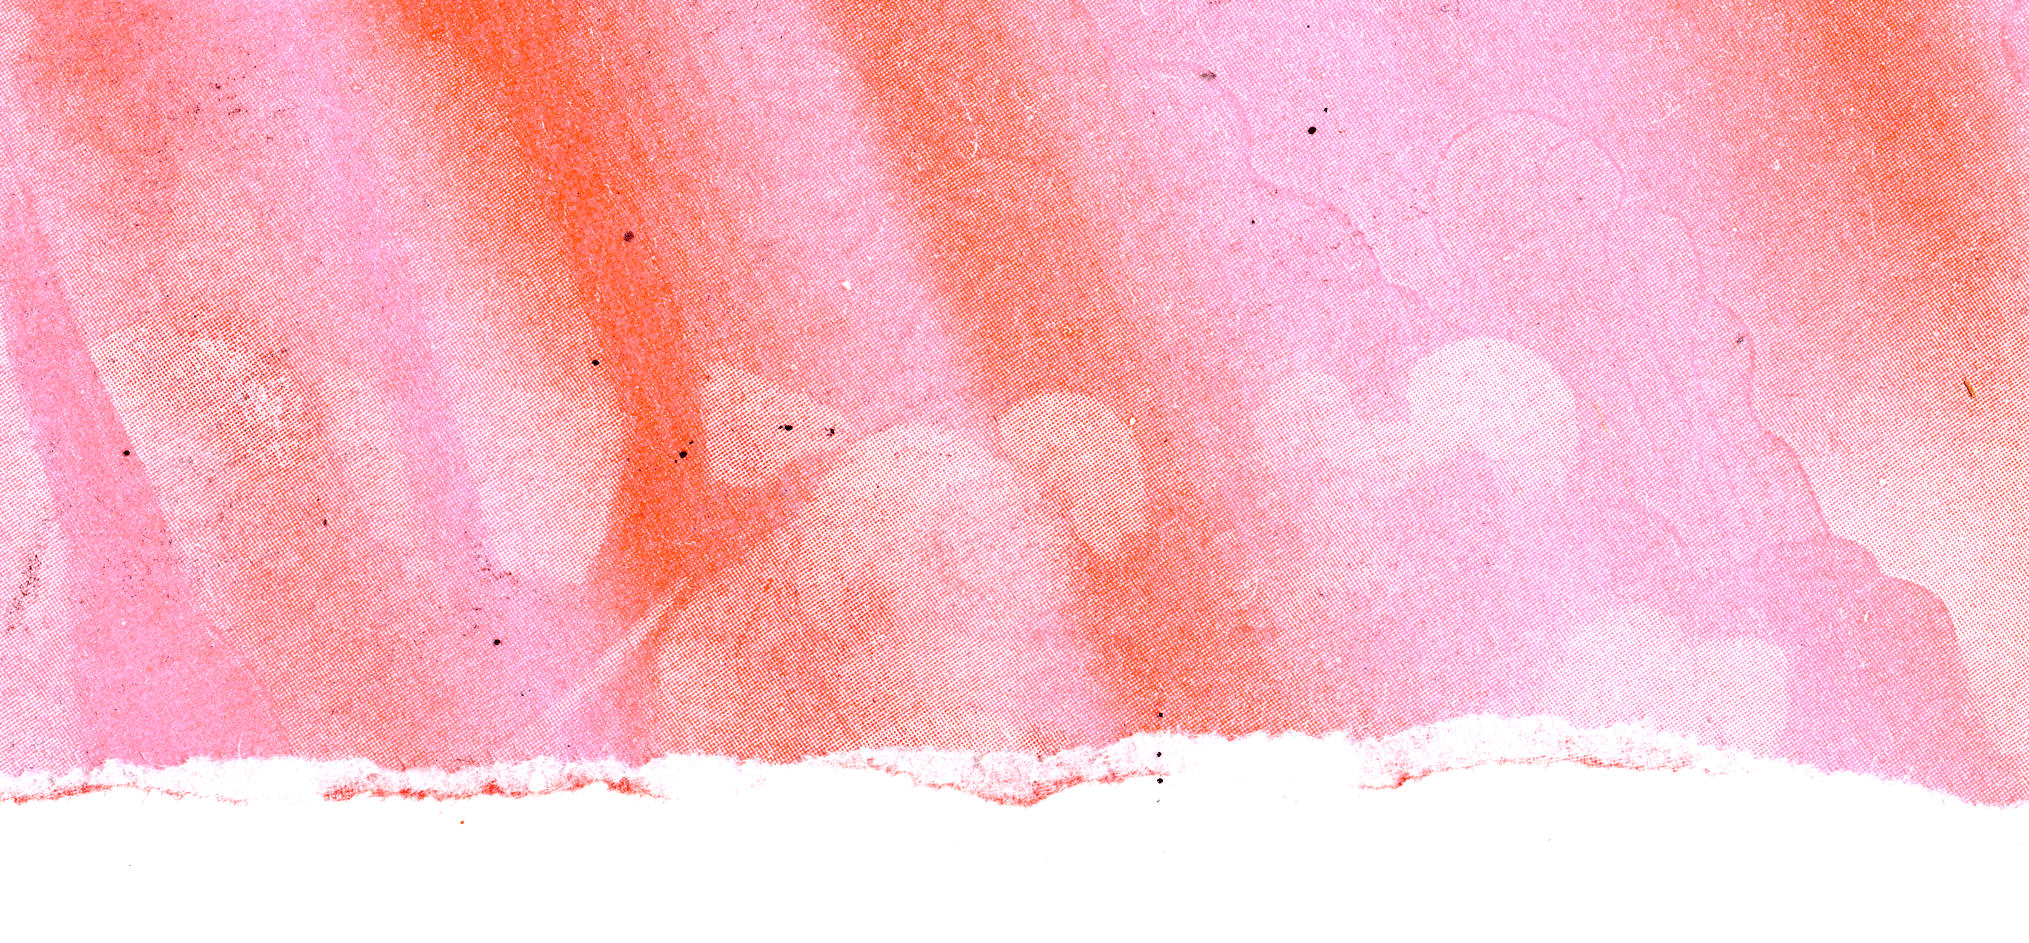
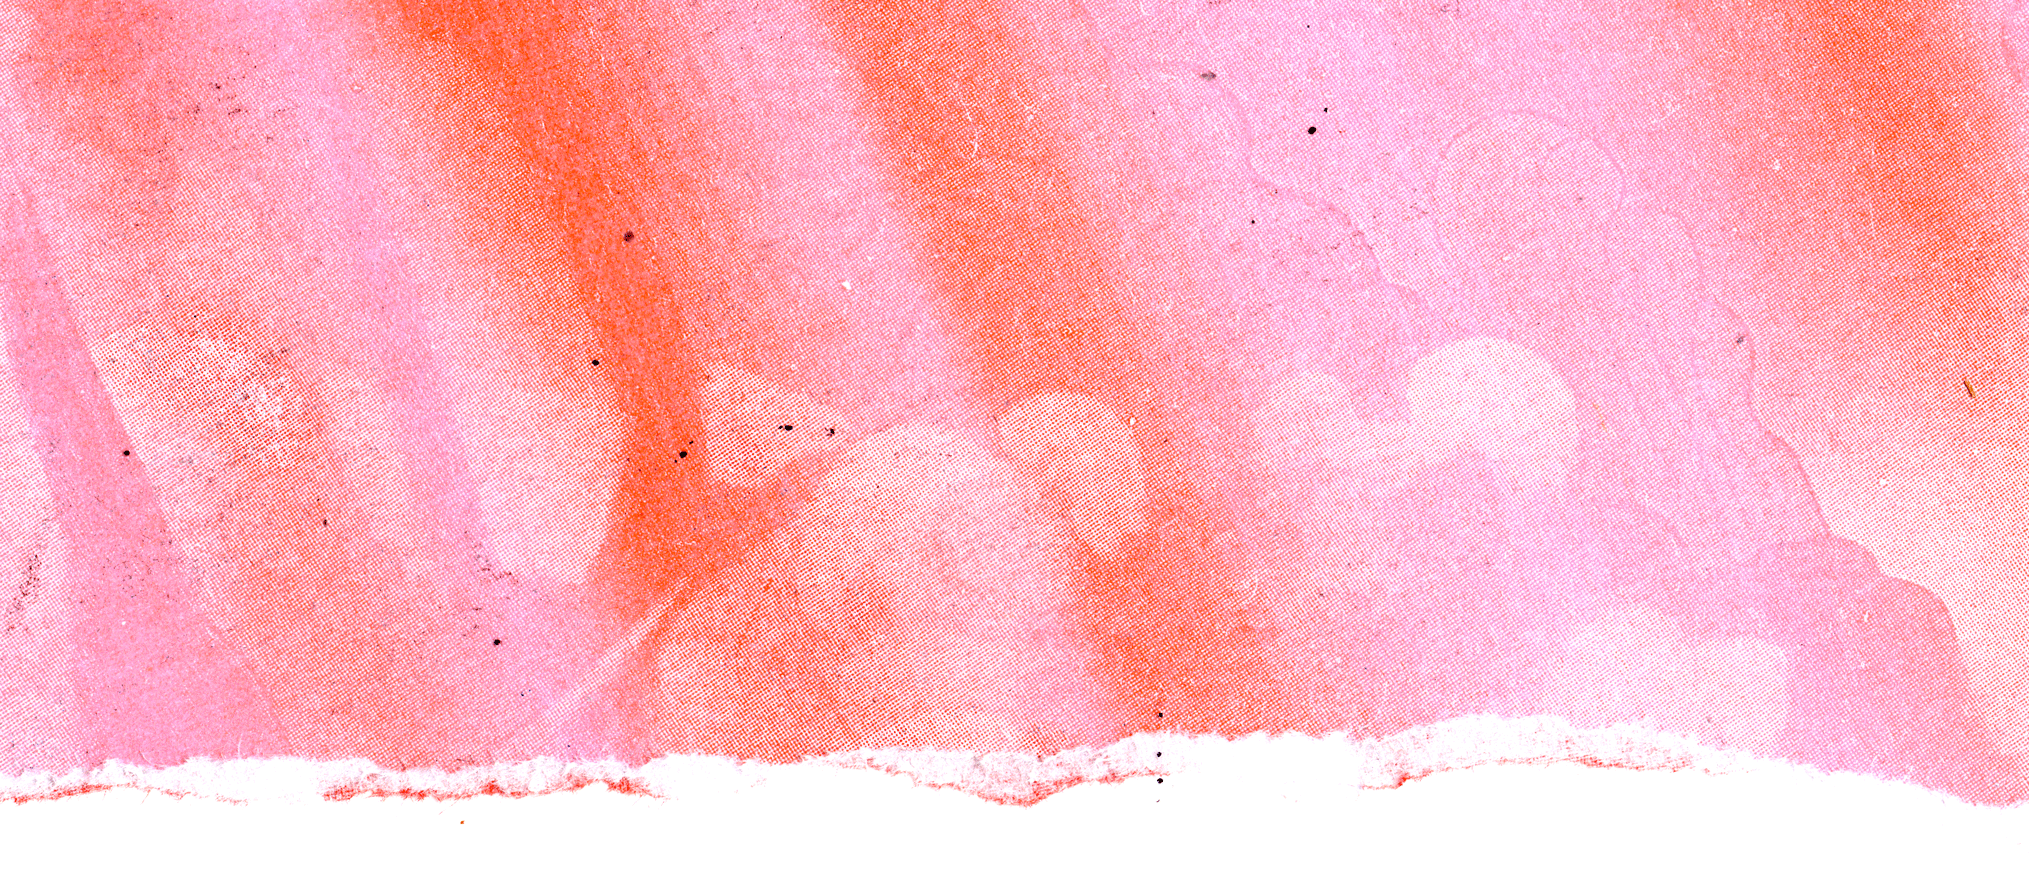
html: update style

diff --git a/srcs/requirements/bonus/www/hazardous/riso.html b/srcs/requirements/bonus/www/hazardous/riso.html
@@ -42,35 +42,41 @@
 				<li><a href="labotory.html">	Labotory</a></li>
 			</ul>
 		</div>
+		<!-- <main style="mix-blend-mode: multiply;"> -->
 	<main>
-			<article>
-				<h1>WHAT IS RISOGRAPHY ?</h1>
-				<p>Hazardous est un laboratoire éditorial. 
-					Develloppé par Nil POLACK, il voit le jour en 2026.
-					Nous experimentons autour de l'impression via risographie; et pas seulement. 
-					Vous trouverez ici les differentes experiences plastique du laboratoire.
-				</p>
-				<p>Créé au Japon en 1946, 
-					la risographie est une méthode d'impression fusionnant la sérigraphie et l'impression offset. 
-					L’encre est appliqué à froid à travers un pochoir (écran maître) fabriqué par la machine 
-					à partir d’une image numérisée. Elle produit des œuvres aux teintes vives 
-					et aux textures variées. Elle se révèle économique Pour les tirages moyens, 
-					en offrant une qualité similaire à l'offset. Cependant, 
-					elle partage aussi des caractéristiques de la sérigraphie, 
-					comme des imperfections charmantes telles que des variations 
-					subtiles dans l'application d'encre. 
-					Grâce à des couleurs vibrantes et un effet granuleux, 
-					les impressions risographiques se démarquent par leur esthétique distincte 
-					et recherchée. Les artistes exploitent souvent ces traits pour créer des 
-					œuvres impossibles à obtenir autrement. La risographie est un procédé écologique, 
-					utilisant des encres à base de soja, consomant peu d’energie et produisant peu de déchets. 
-					Le papier imprimé n’est pas couché, sans plastique. En somme, la risographie, 
-					en mariant les atouts de la sérigraphie et de l'offset, 
-					propose des résultats visuellement attrayants, uniques et abordables. 
-					Son utilisation croissante dans l'art et l'édition découle de sa capacité à 
-					générer des impressions mémorables et marquantes.
-				</p>
-			</article>
+			<section class="left">
+				<div style="background-image: url('images/nuancier.jpg'); mix-blend-mode: normal;" class="image"></div>
+				<div class="text">
+					<h1>WHAT IS RISOGRAPHY ?</h1>
+					<p>Créé au Japon en 1946, 
+						la risographie est une méthode d'impression fusionnant la sérigraphie et l'impression offset. 
+						L’encre est appliqué à froid à travers un pochoir (écran maître) fabriqué par la machine 
+						à partir d’une image numérisée. Elle produit des œuvres aux teintes vives 
+						et aux textures variées. Elle se révèle économique Pour les tirages moyens, 
+						en offrant une qualité similaire à l'offset. Cependant, 
+						elle partage aussi des caractéristiques de la sérigraphie, 
+						comme des imperfections charmantes telles que des variations 
+						subtiles dans l'application d'encre. 
+						Grâce à des couleurs vibrantes et un effet granuleux, 
+						les impressions risographiques se démarquent par leur esthétique distincte 
+						et recherchée. Les artistes exploitent souvent ces traits pour créer des 
+						œuvres impossibles à obtenir autrement. La risographie est un procédé écologique, 
+						utilisant des encres à base de soja, consomant peu d’energie et produisant peu de déchets. 
+						Le papier imprimé n’est pas couché, sans plastique. En somme, la risographie, 
+						en mariant les atouts de la sérigraphie et de l'offset, 
+						propose des résultats visuellement attrayants, uniques et abordables. 
+						Son utilisation croissante dans l'art et l'édition découle de sa capacité à 
+						générer des impressions mémorables et marquantes.
+					</p>
+				</div>
+			</section>
+			<section class="right">
+				<div class="text">
+				<h2>Riso colors</h2>
+					<p>We print using a Risograph GR3770 (600 * 600 dpi) and have 12 colors available.</p>
+				</div>
+				<img src="images/risoColors.jpg" style="mix-blend-mode: multiply;" />
+			</section>
 
 	</main>
 

diff --git a/srcs/requirements/bonus/www/hazardous/style.css b/srcs/requirements/bonus/www/hazardous/style.css
@@ -14,6 +14,8 @@
 }
 
 *{
+	outline: 2px solid red;
+	background: none;
     font-family: StampLike, typewriter, Ubuntu;
 	color: rgb(24, 30, 115);
     font-size:16pt;
@@ -32,16 +34,29 @@ html, body {
 
 h1 {
 	font-size: 2.2rem;
-	margin: 0.5rem 0;
 	font-weight:bolder;
+	text-decoration: underline overline;
+}
+h2 {
+	font-size: 2.0rem;
+	font-weight:bolder;
+	text-decoration: underline;
 }
 
+p {
+	padding: 0 0 0.5rem 0;
+}
+
+h3 {
+	font-size: 1.5rem;
+	text-decoration: underline;
+}
 main {
   position: relative;
-  margin: 20px auto 0 auto;
-  background: transparent;
+  margin: 0 auto 0 auto;
+  background-image: url('images/wrinkled-paper-white.jpg');
   z-index: 1;  /* in front */
-  padding: 2rem;
+  padding: 150px 0;
   max-width: 1500px;
 }
 
@@ -57,14 +72,27 @@ article #paypal-button-container {
 }
 
 section {
-	box-shadow: 0 2px 8px rgba(0, 0, 0, 0.6);
+/*	box-shadow: 0 2px 8px rgba(0, 0, 0, 0.6); */
 	display: flex;
 	width: 100%;
 	margin: 40px 0;
 	overflow: hidden;
 	align-items: flex-start;
-	background-color: transparent;
+	background-color: none;
 	align-items: stretch; /* <--- ensures image fills full height */
+}
+
+.left .text {
+  text-align: left; /* override center alignment */
+}
+
+.right .text {
+  text-align: right; /* override center alignment */
+}
+
+section img {
+	width: 90%;
+	mix-blend-mode: multiply;
 }
 
 section .image {
@@ -85,14 +113,14 @@ section .p5cnv {
 
 section .text{
   width: 66%;
-  padding: 1rem;
+  padding: 0 1rem;
   text-align: left; /* override center alignment */
 }
 
 section .text a {
   display: block;
   width: fit-content;
-  margin: 1rem auto 0 auto; /* top margin + horizontal centering */
+  margin: 0 auto 0 auto; /* top margin + horizontal centering */
 }
 
 #header {
@@ -106,11 +134,25 @@ section .text a {
 	width: 100%;
 }
 
+#nav::before {
+    content: '';
+    position: absolute;
+    top: -580px;		/* Overflow upward */
+    left: 0; 			/* Overflow leftward */
+    right: 0; 			/* Overflow rightward */
+    bottom: -150px; 	/* Overflow downward */
+    background-image: url('images/header_web.png');
+    background-size: cover;
+    background-position: center;
+    background-repeat: no-repeat;
+    z-index: -1; /* Behind the nav content */
+}
+
 #nav {
 	display: flex;
 	position: -webkit-sticky;
 	position: sticky;
-	top: 0;   
+	top: 0; 
 	height: 50px;
 	color: white;
 	width:100%;
@@ -120,26 +162,14 @@ section .text a {
 	z-index:3;
 }
 
-#nav::before {
-    content: '';
-    position: absolute;
-    top: -500px; /* Overflow upward */
-    left: 0; /* Overflow leftward */
-    right: 0; /* Overflow rightward */
-    bottom: -130px; /* Overflow downward */
-    background-image: url('images/header_web.png');
-    background-size: cover;
-    background-position: center;
-    background-repeat: no-repeat;
-    z-index: -1; /* Behind the nav content */
-}
-
 #nav ul {
+	width: 100%;
 	display: flex;
-	flex-wrap: wrap;             /* allow wrapping */
+/*	flex-wrap: wrap;             /* allow wrapping */
     list-style: none; /* optional: removes bullet points */
 	align-items: center;
-	justify-content: center; /* centers items horizontally */
+	/*justify-content: center; /* centers items horizontally */
+	justify-content: space-evenly; 
     /*gap: 2rem; /* optional spacing between items */
 	box-sizing: border-box;
 }
@@ -149,8 +179,8 @@ section .text a {
   align-items: center;          /* vertical center */
   justify-content: center;      /* horizontal center (optional) */
   padding: 0.3rem 1rem;           /* keep horizontal padding */
-  background: rgba(255, 255, 255, 0.1);
-  border-radius: 8px;
+  background: rgba(255, 255, 255, 1);
+  /*border-radius: 8px;*/
   transition: background 0.3s, transform 0.2s;
 }
 

diff --git a/srcs/requirements/bonus/www/hazardous/labotory.html b/srcs/requirements/bonus/www/hazardous/labotory.html
@@ -54,10 +54,10 @@
 					Vous trouverez ici les differentes experiences plastique du laboratoire.
 				</p>
 			</article>
-			<section class="uneven-border">
+			<section class="left">
 				<div class="image" style="background-image: url('images/papier_peint_detail1.jpg');"></div>
 				<div class="text">
-					<h1>Mur et papier</h1>
+					<h2>Mur et papier</h2>
 					<p>"Murs & Papier" est un projet autour de la couleur et du motif. 
 						Ce sont des fresques en papier de toutes tailles qui viennent 
 						se fondre et sublimer le paysage en décorant le mobilier urbain. 
@@ -76,25 +76,27 @@
 					<a href="">show more</a>
 				</div>
 			</section>
-			<section>
-				<div class="text">
-					<h1>Numerical sketch</h1>
+			<section class="right">
+				<div class="text right">
+					<h2>Numerical sketch</h2>
 					<p>Here are few experiment using a popular javascript librairie for creative numerical image. you'll find here some stuff about ...</p>
 					<a href="">show more</a>
 				</div>
 				<div id="cnv1" class="p5cnv"></div>
 			</section>
-			<section>
+			<section class="left">
 				<div style="background-image: url('images/chromatic_ephemeris.jpg')" class="image"></div>
 				<div class="text">
-					<h1>Chromatic Ephemeris</h1>
+					<h2>Chromatic Ephemeris</h2>
 					<p>
 						Chromatic Ephemeris is a recurring publication influenced by quantum postulates, 
 						manifesting in various forms with variable content. 
 						This periodic documentation of color experiments is produced using risography. 
 						Through this endeavor, we delve into a quasi-quantum dimension. 
 						Join us on this exploration. Welcome to the digital rendition of CHROMATIC_EPHEMERIS. 
-					<h2>Thought, ideas and emotions are seen like wave</h2> 
+					</p>
+					<h3>Wavefunction (ψ) and Corpuscules x(t) </h3> 
+					<p>
 						Thoughts, ideas, and emotions are perceived as waves: undoubtedly existing, yet in a waveform. 
 						They reside within our brains, hearts, and even extend beyond ourselves. 
 						Could this webpage be a connection between us? 

diff --git a/srcs/requirements/bonus/www/hazardous/style_mobile.css b/srcs/requirements/bonus/www/hazardous/style_mobile.css
@@ -1,12 +1,13 @@
 @media (max-width: 600px) {
+
 	main {
-		padding: 0;
-		margin:80px 0 0 0;
+		padding: 100px 0;
 		width: 100%;
         top: 0;
         left: 0;
         right: 0;
 	}
+
     #nav::before {
         top: -280px; 
         bottom: -80px;
@@ -20,6 +21,32 @@
 	#nav ul li a {
 		font-size: 12pt;
 		color:blue;
+	}
+	p, p a {
+		font-size: 0.8rem;
+	}
+
+	.collection-menu {
+	  display: flex;
+	  justify-content: space-evenly;
+	  list-style: none;
+	  margin: 5px 0 0 0;
+	  background: #f9f9f9;
+	  border-top: 1px solid #ddd;
+	  align-items: stretch;
+	}
+
+	.collection-menu li {
+		font-size: 0.5rem;
+		display:flex;
+		cursor: pointer;        /* show hand on hover */
+		padding: 10px;
+		flex-direction: column;       /* Stack text vertically */
+		align-items: center;          /* Vertical alignment */
+		justify-content: center;      /* Horizontal alignment */
+		flex: 1;
+		background: rgba(255, 255, 255, 0.1);
+		transition: background 0.3s, transform 0.2s;
 	}
 	.gallery {
 	  display: grid;

diff --git a/srcs/requirements/bonus/www/hazardous/index.html b/srcs/requirements/bonus/www/hazardous/index.html
@@ -8,6 +8,7 @@
 	<title>// HAZARDOUS //</title>
 	<!-- STYLES --> 
 	<link href="style.css" rel="stylesheet">
+	<link href="style_mobile.css" rel="stylesheet">
 	<link href="https://fonts.googleapis.com/css?family=Ubuntu" rel="stylesheet">
 
 	<!-- JAVASCRIPT -->
